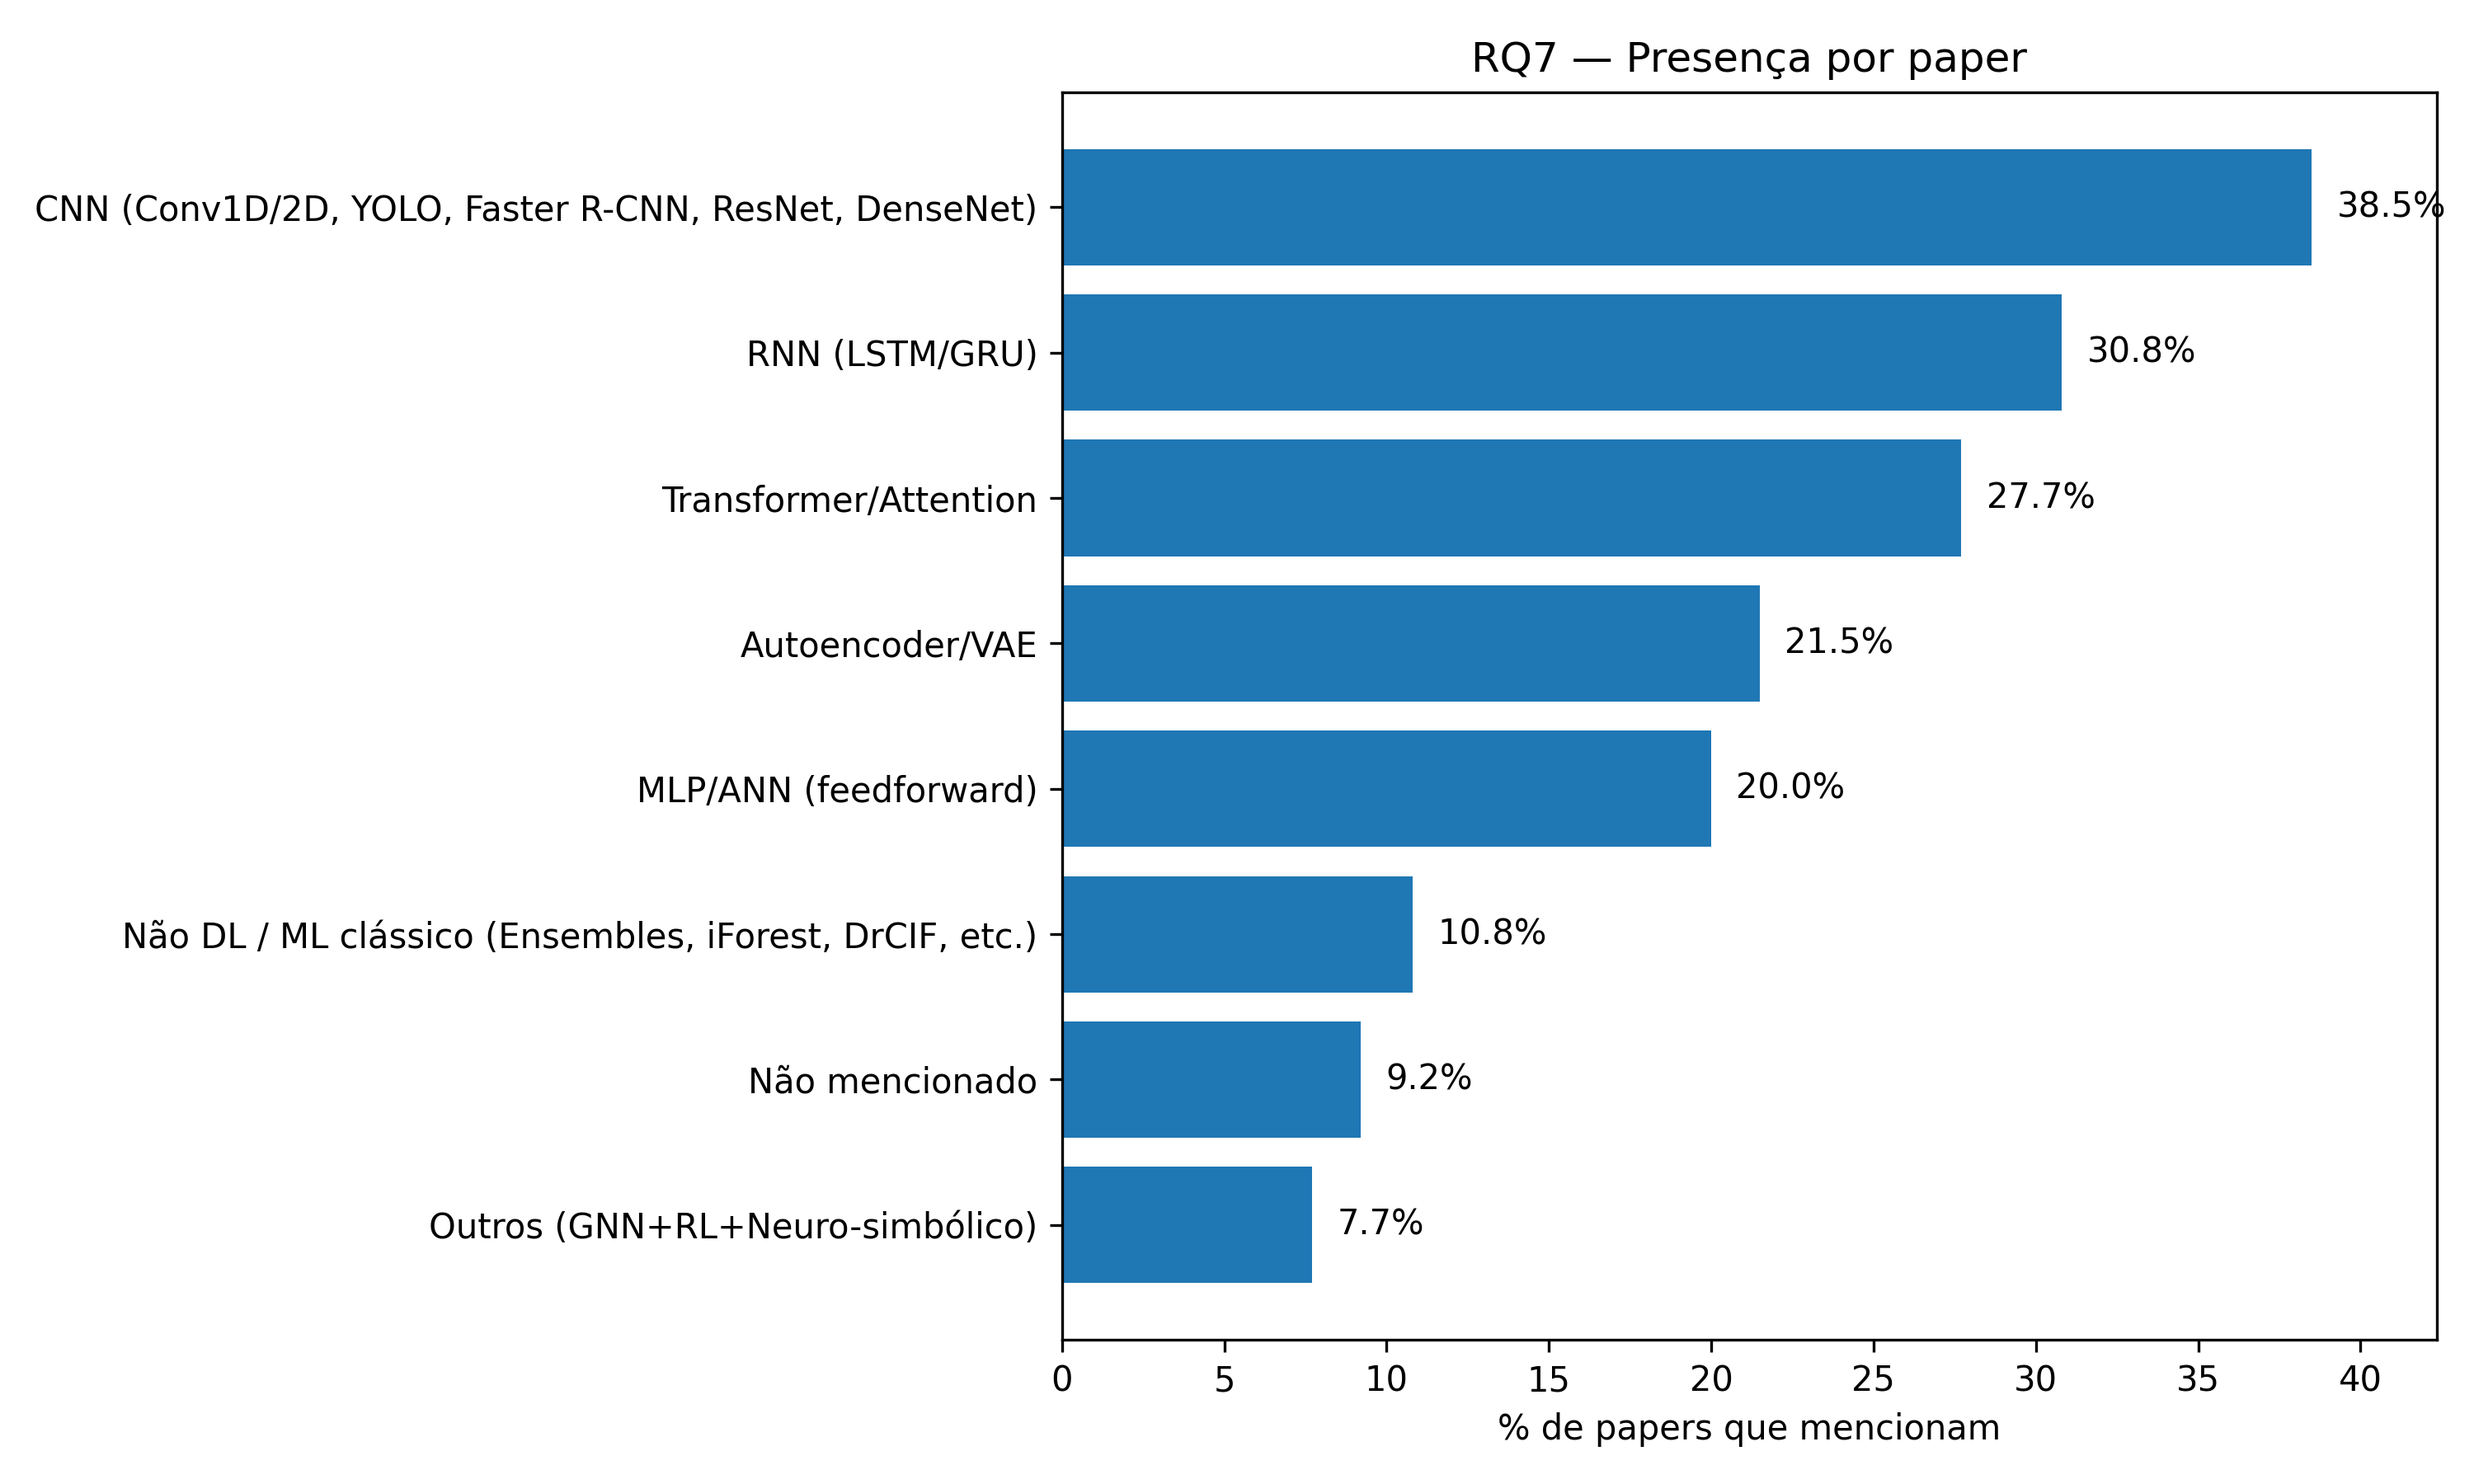
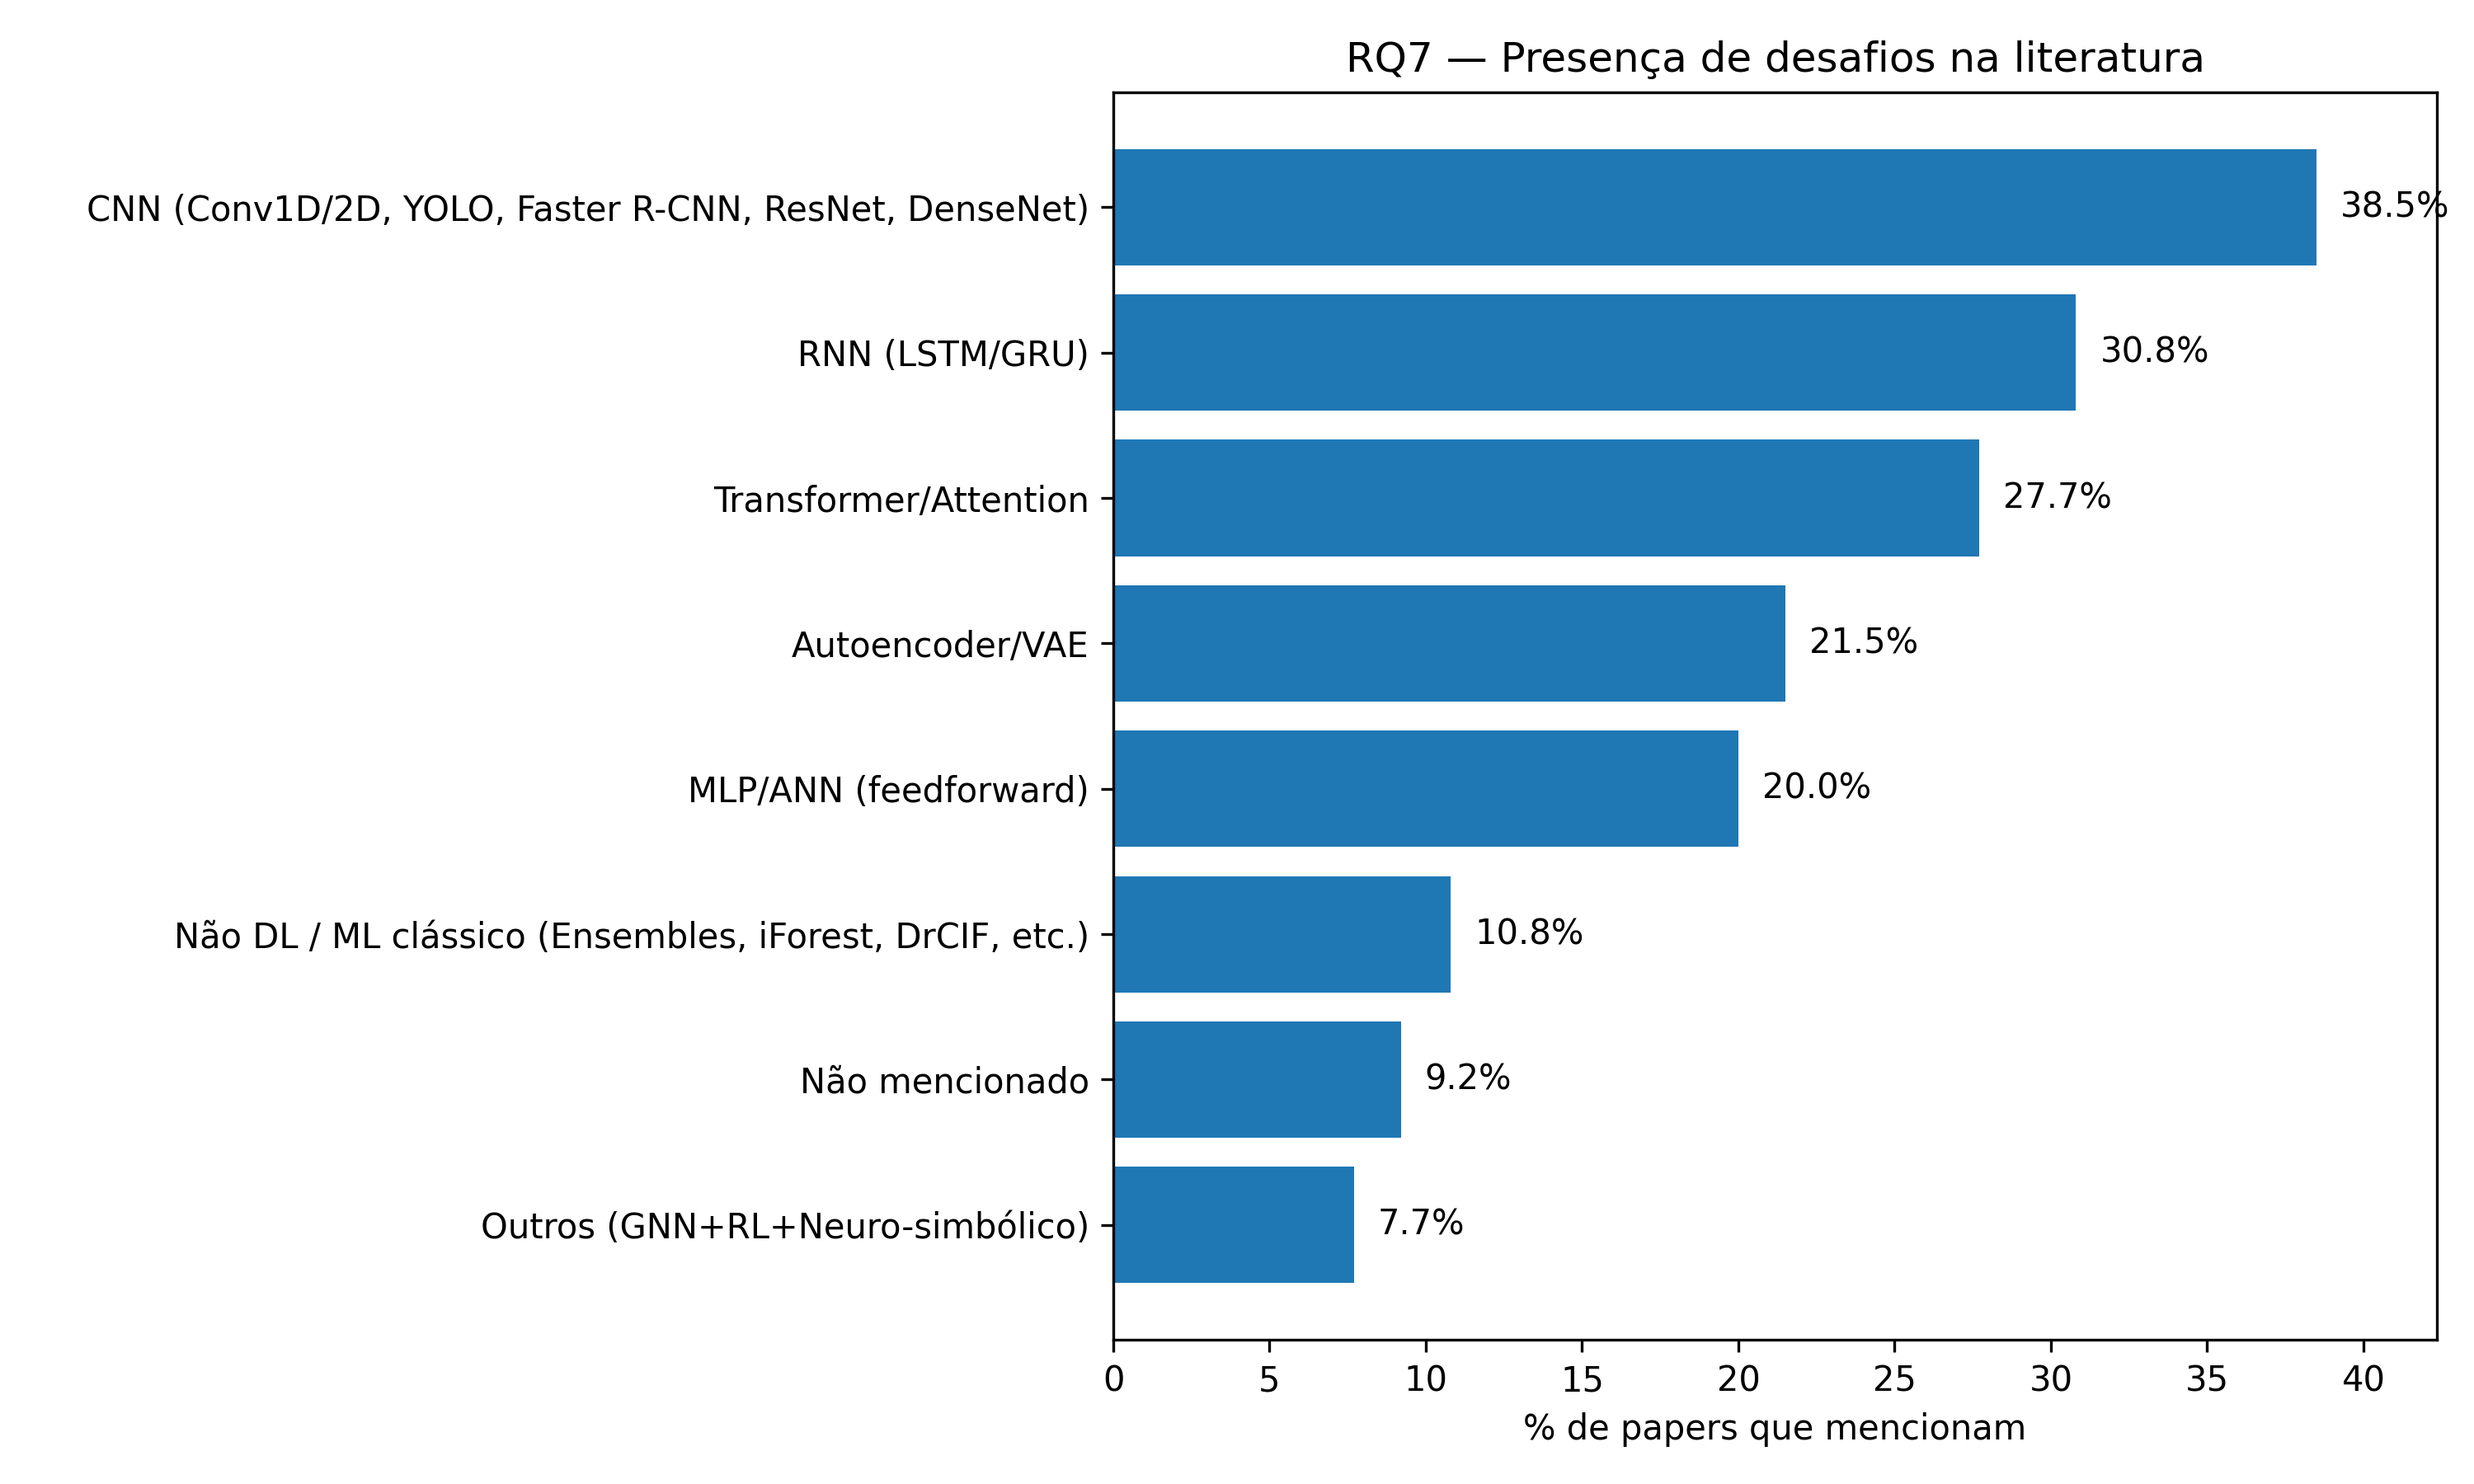
add RQ8 - RQ11

diff --git a/src/plot_rq8.py b/src/plot_rq8.py
@@ -1,0 +1,103 @@
+import pandas as pd
+import matplotlib.pyplot as plt
+from pathlib import Path
+
+DATA_DIR = Path("data")
+OUT_DIR = Path("img/RQ8")
+OUT_DIR.mkdir(parents=True, exist_ok=True)
+
+RQ = "RQ8"
+
+#Gráfico 1: Barras horizontais
+df_long = pd.read_csv(DATA_DIR / "respostas_long.csv")
+sub = df_long[df_long["RQ"] == RQ].copy()
+
+counts = sub["Categoria"].value_counts()
+
+MIN_COUNT = 3
+main = counts[counts >= MIN_COUNT]
+others = counts[counts < MIN_COUNT].sum()
+counts_grouped = main.copy()
+if others > 0:
+    counts_grouped.loc["Outros"] = others
+
+counts_sorted = counts_grouped.sort_values()
+
+plt.figure(figsize=(10, 6))
+bars = plt.barh(counts_sorted.index, counts_sorted.values)
+
+plt.xlabel("Ocorrências (menções)")
+plt.title(f"{RQ} — Técnicas de XAI (ocorrências)")
+
+max_val = counts_sorted.max()
+x_pad = max(1, int(max_val * 0.02))
+
+for bar in bars:
+    w = bar.get_width()
+    y = bar.get_y() + bar.get_height() / 2
+    plt.text(w + x_pad, y, f"{int(w)}", va="center")
+
+plt.xlim(0, max_val + 6 * x_pad)
+plt.tight_layout()
+plt.subplots_adjust(left=0.55)
+
+out_path1 = OUT_DIR / f"{RQ}_barras.png"
+plt.savefig(out_path1, dpi=300)
+plt.show()
+print(f"Salvo em: {out_path1}")
+
+#Gráfico 2: Heatmap de coocorrência
+df_clean = pd.read_csv(DATA_DIR / "respostas_clean.csv")
+
+rq8 = df_clean[["Título", "RQ8"]].copy()
+rq8["RQ8"] = rq8["RQ8"].fillna("").astype(str)
+rq8["RQ8"] = rq8["RQ8"].apply(lambda s: [x.strip() for x in s.split("+") if x.strip()])
+rq8 = rq8.explode("RQ8").rename(columns={"RQ8": "Categoria"})
+rq8 = rq8.dropna(subset=["Categoria"])
+
+# aplica o mesmo agrupamento raro -> "Outros"
+keep = set(main.index)
+rq8["Categoria"] = rq8["Categoria"].apply(lambda x: x if x in keep else "Outros")
+
+rq8 = rq8.drop_duplicates(["Título", "Categoria"])
+
+mat = pd.crosstab(rq8["Título"], rq8["Categoria"])
+co = mat.T.dot(mat)
+
+plt.figure(figsize=(10, 8))
+plt.imshow(co.values, aspect="auto")
+plt.xticks(range(len(co.columns)), co.columns, rotation=45, ha="right")
+plt.yticks(range(len(co.index)), co.index)
+plt.title(f"{RQ} — Coocorrência de técnicas de XAI (por paper)")
+plt.colorbar(label="Nº de papers com ambas as técnicas")
+plt.tight_layout()
+
+out_path2 = OUT_DIR / f"{RQ}_heatmap.png"
+plt.savefig(out_path2, dpi=300)
+plt.show()
+print(f"Salvo em: {out_path2}")
+
+#Gráfico 3: Pizza de quantidade de categorias por paper
+unique_pairs = sub.drop_duplicates(["Título", "Categoria"])
+k = unique_pairs.groupby("Título")["Categoria"].nunique()
+dist = k.value_counts().sort_index()
+
+labels = [str(i) for i in dist.index] 
+values = dist.values
+
+plt.figure(figsize=(9, 9))
+plt.pie(
+    values,
+    labels=labels,
+    autopct=lambda p: f"{p:.1f}%",
+    startangle=90,
+    textprops={"fontsize": 10},
+)
+
+plt.title(f"{RQ} — Quantidade de técnicas XAI por paper")
+plt.tight_layout()
+
+out_path3 = OUT_DIR / f"{RQ}_qtd_categorias_por_paper.png"
+plt.savefig(out_path3, dpi=300)
+plt.show()
+print(f"Salvo em: {out_path3}")

diff --git a/src/plot_rq11.py b/src/plot_rq11.py
@@ -1,0 +1,110 @@
+import pandas as pd
+import matplotlib.pyplot as plt
+from pathlib import Path
+
+DATA_DIR = Path("data")
+OUT_DIR = Path("img/RQ11")
+OUT_DIR.mkdir(parents=True, exist_ok=True)
+
+RQ = "RQ11"
+
+df_long = pd.read_csv(DATA_DIR / "respostas_long.csv")
+sub = df_long[df_long["RQ"] == RQ].copy()
+
+counts = sub["Categoria"].value_counts()
+
+MIN_COUNT = 4
+main = counts[counts >= MIN_COUNT]
+others = counts[counts < MIN_COUNT].sum()
+
+counts_grouped = main.copy()
+if others > 0:
+    counts_grouped.loc["Outros"] = others
+
+#Gráfico 1: Barras horizontais
+counts_sorted = counts_grouped.sort_values()
+
+plt.figure(figsize=(10, 6))
+bars = plt.barh(counts_sorted.index, counts_sorted.values)
+
+plt.xlabel("Ocorrências (menções)")
+plt.title(f"{RQ} — Desafios e lacunas reportados")
+
+max_val = counts_sorted.max()
+x_pad = max(1, int(max_val * 0.02))
+
+for bar in bars:
+    w = bar.get_width()
+    y = bar.get_y() + bar.get_height() / 2
+    plt.text(w + x_pad, y, f"{int(w)}", va="center")
+
+plt.xlim(0, max_val + 6 * x_pad)
+plt.tight_layout()
+plt.subplots_adjust(left=0.48)
+
+out_path1 = OUT_DIR / f"{RQ}_barras.png"
+plt.savefig(out_path1, dpi=300)
+plt.show()
+print(f"Salvo em: {out_path1}")
+
+#Gráfico 2: Porcentagem de papers que mencionam cada categoria
+
+n_papers = sub["Título"].nunique()
+
+papers_per_cat = (
+    sub.drop_duplicates(["Título", "Categoria"])
+       .groupby("Categoria")["Título"]
+       .nunique()
+       .sort_values(ascending=False)
+)
+
+pct = (papers_per_cat / n_papers * 100).round(1).sort_values()
+
+plt.figure(figsize=(10, 6))
+bars = plt.barh(pct.index, pct.values)
+
+plt.xlabel("% de papers que mencionam")
+plt.title(f"{RQ} — Presença de desafios na literatura")
+
+max_val = pct.max()
+x_pad = max(0.5, max_val * 0.02)
+
+for bar in bars:
+    w = bar.get_width()
+    y = bar.get_y() + bar.get_height() / 2
+    plt.text(w + x_pad, y, f"{w:.1f}%", va="center")
+
+plt.xlim(0, min(100, max_val + 5 * x_pad))
+plt.tight_layout()
+plt.subplots_adjust(left=0.45)
+
+out_path2 = OUT_DIR / f"{RQ}_porcentagem_paper.png"
+plt.savefig(out_path2, dpi=300)
+plt.show()
+
+print(f"Salvo em: {out_path2}")
+
+#Gráfico 3: Quantidade de categorias por paper
+unique_pairs = sub.drop_duplicates(["Título", "Categoria"])
+k = unique_pairs.groupby("Título")["Categoria"].nunique()
+dist = k.value_counts().sort_index()
+
+labels = [str(i) for i in dist.index]
+values = dist.values
+
+plt.figure(figsize=(9, 9))
+plt.pie(
+    values,
+    labels=labels,
+    autopct=lambda p: f"{p:.1f}%",
+    startangle=90,
+    textprops={"fontsize": 10},
+)
+
+plt.title(f"{RQ} — Quantidade de desafios/lacunas por paper")
+plt.tight_layout()
+
+out_path3 = OUT_DIR / f"{RQ}_qtd_categorias_por_paper.png"
+plt.savefig(out_path3, dpi=300)
+plt.show()
+print(f"Salvo em: {out_path3}")

diff --git a/src/plot_rq10.py b/src/plot_rq10.py
@@ -1,0 +1,79 @@
+import pandas as pd
+import matplotlib.pyplot as plt
+from pathlib import Path
+
+DATA_DIR = Path("data")
+OUT_DIR = Path("img/RQ10")
+OUT_DIR.mkdir(parents=True, exist_ok=True)
+
+RQ = "RQ10"
+
+df = pd.read_csv(DATA_DIR / "respostas_long.csv")
+sub = df[df["RQ"] == RQ].copy()
+
+MIN_COUNT = 3
+
+counts = sub["Categoria"].value_counts()
+
+main = counts[counts >= MIN_COUNT]
+others = counts[counts < MIN_COUNT].sum()
+
+counts_grouped = main.copy()
+if others > 0:
+    counts_grouped.loc["Outros"] = others
+
+counts_sorted = counts_grouped.sort_values()
+
+#Gráfico 1: Barras horizontais
+plt.figure(figsize=(10,6))
+bars = plt.barh(counts_sorted.index, counts_sorted.values)
+
+plt.xlabel("Ocorrências")
+plt.title(f"{RQ} — Tipos de métricas utilizadas")
+
+max_val = counts_sorted.max()
+x_pad = max(1, int(max_val * 0.02))
+
+for bar in bars:
+    w = bar.get_width()
+    y = bar.get_y() + bar.get_height()/2
+    plt.text(w + x_pad, y, f"{int(w)}", va="center")
+
+plt.xlim(0, max_val + 6*x_pad)
+plt.tight_layout()
+plt.subplots_adjust(left=0.45)
+
+out_path1 = OUT_DIR / f"{RQ}_barras.png"
+plt.savefig(out_path1, dpi=300)
+plt.show()
+
+print(f"Salvo em: {out_path1}")
+
+
+#Gráfico 2: Quantidade de métricas por paper
+unique_pairs = sub.drop_duplicates(["Título","Categoria"])
+k = unique_pairs.groupby("Título")["Categoria"].nunique()
+
+dist = k.value_counts().sort_index()
+
+labels = [str(i) for i in dist.index]
+values = dist.values
+
+plt.figure(figsize=(9,9))
+
+plt.pie(
+    values,
+    labels=labels,
+    autopct=lambda p: f"{p:.1f}%",
+    startangle=90,
+    textprops={"fontsize":10}
+)
+
+plt.title(f"{RQ} — Quantidade de métricas por paper")
+plt.tight_layout()
+
+out_path3 = OUT_DIR / f"{RQ}_qtd_metricas_por_paper.png"
+plt.savefig(out_path3, dpi=300)
+plt.show()
+
+print(f"Salvo em: {out_path3}")

diff --git a/src/plot_rq9.py b/src/plot_rq9.py
@@ -1,0 +1,35 @@
+import pandas as pd
+import matplotlib.pyplot as plt
+from pathlib import Path
+
+DATA_DIR = Path("data")
+OUT_DIR = Path("img/RQ9")
+OUT_DIR.mkdir(parents=True, exist_ok=True)
+
+RQ = "RQ9"
+
+df = pd.read_csv(DATA_DIR / "respostas_long.csv")
+sub = df[df["RQ"] == RQ].copy()
+
+counts = sub["Categoria"].value_counts()
+
+pct = (counts / counts.sum() * 100).round(1)
+
+plt.figure(figsize=(8,8))
+
+plt.pie(
+    pct.values,
+    labels=pct.index,
+    autopct=lambda p: f"{p:.1f}%",
+    startangle=90,
+    textprops={"fontsize":11}
+)
+
+plt.title(f"{RQ} — Escopo das explicações XAI")
+plt.tight_layout()
+
+out_path = OUT_DIR / f"{RQ}_pizza.png"
+plt.savefig(out_path, dpi=300)
+plt.show()
+
+print(f"Salvo em: {out_path}")
